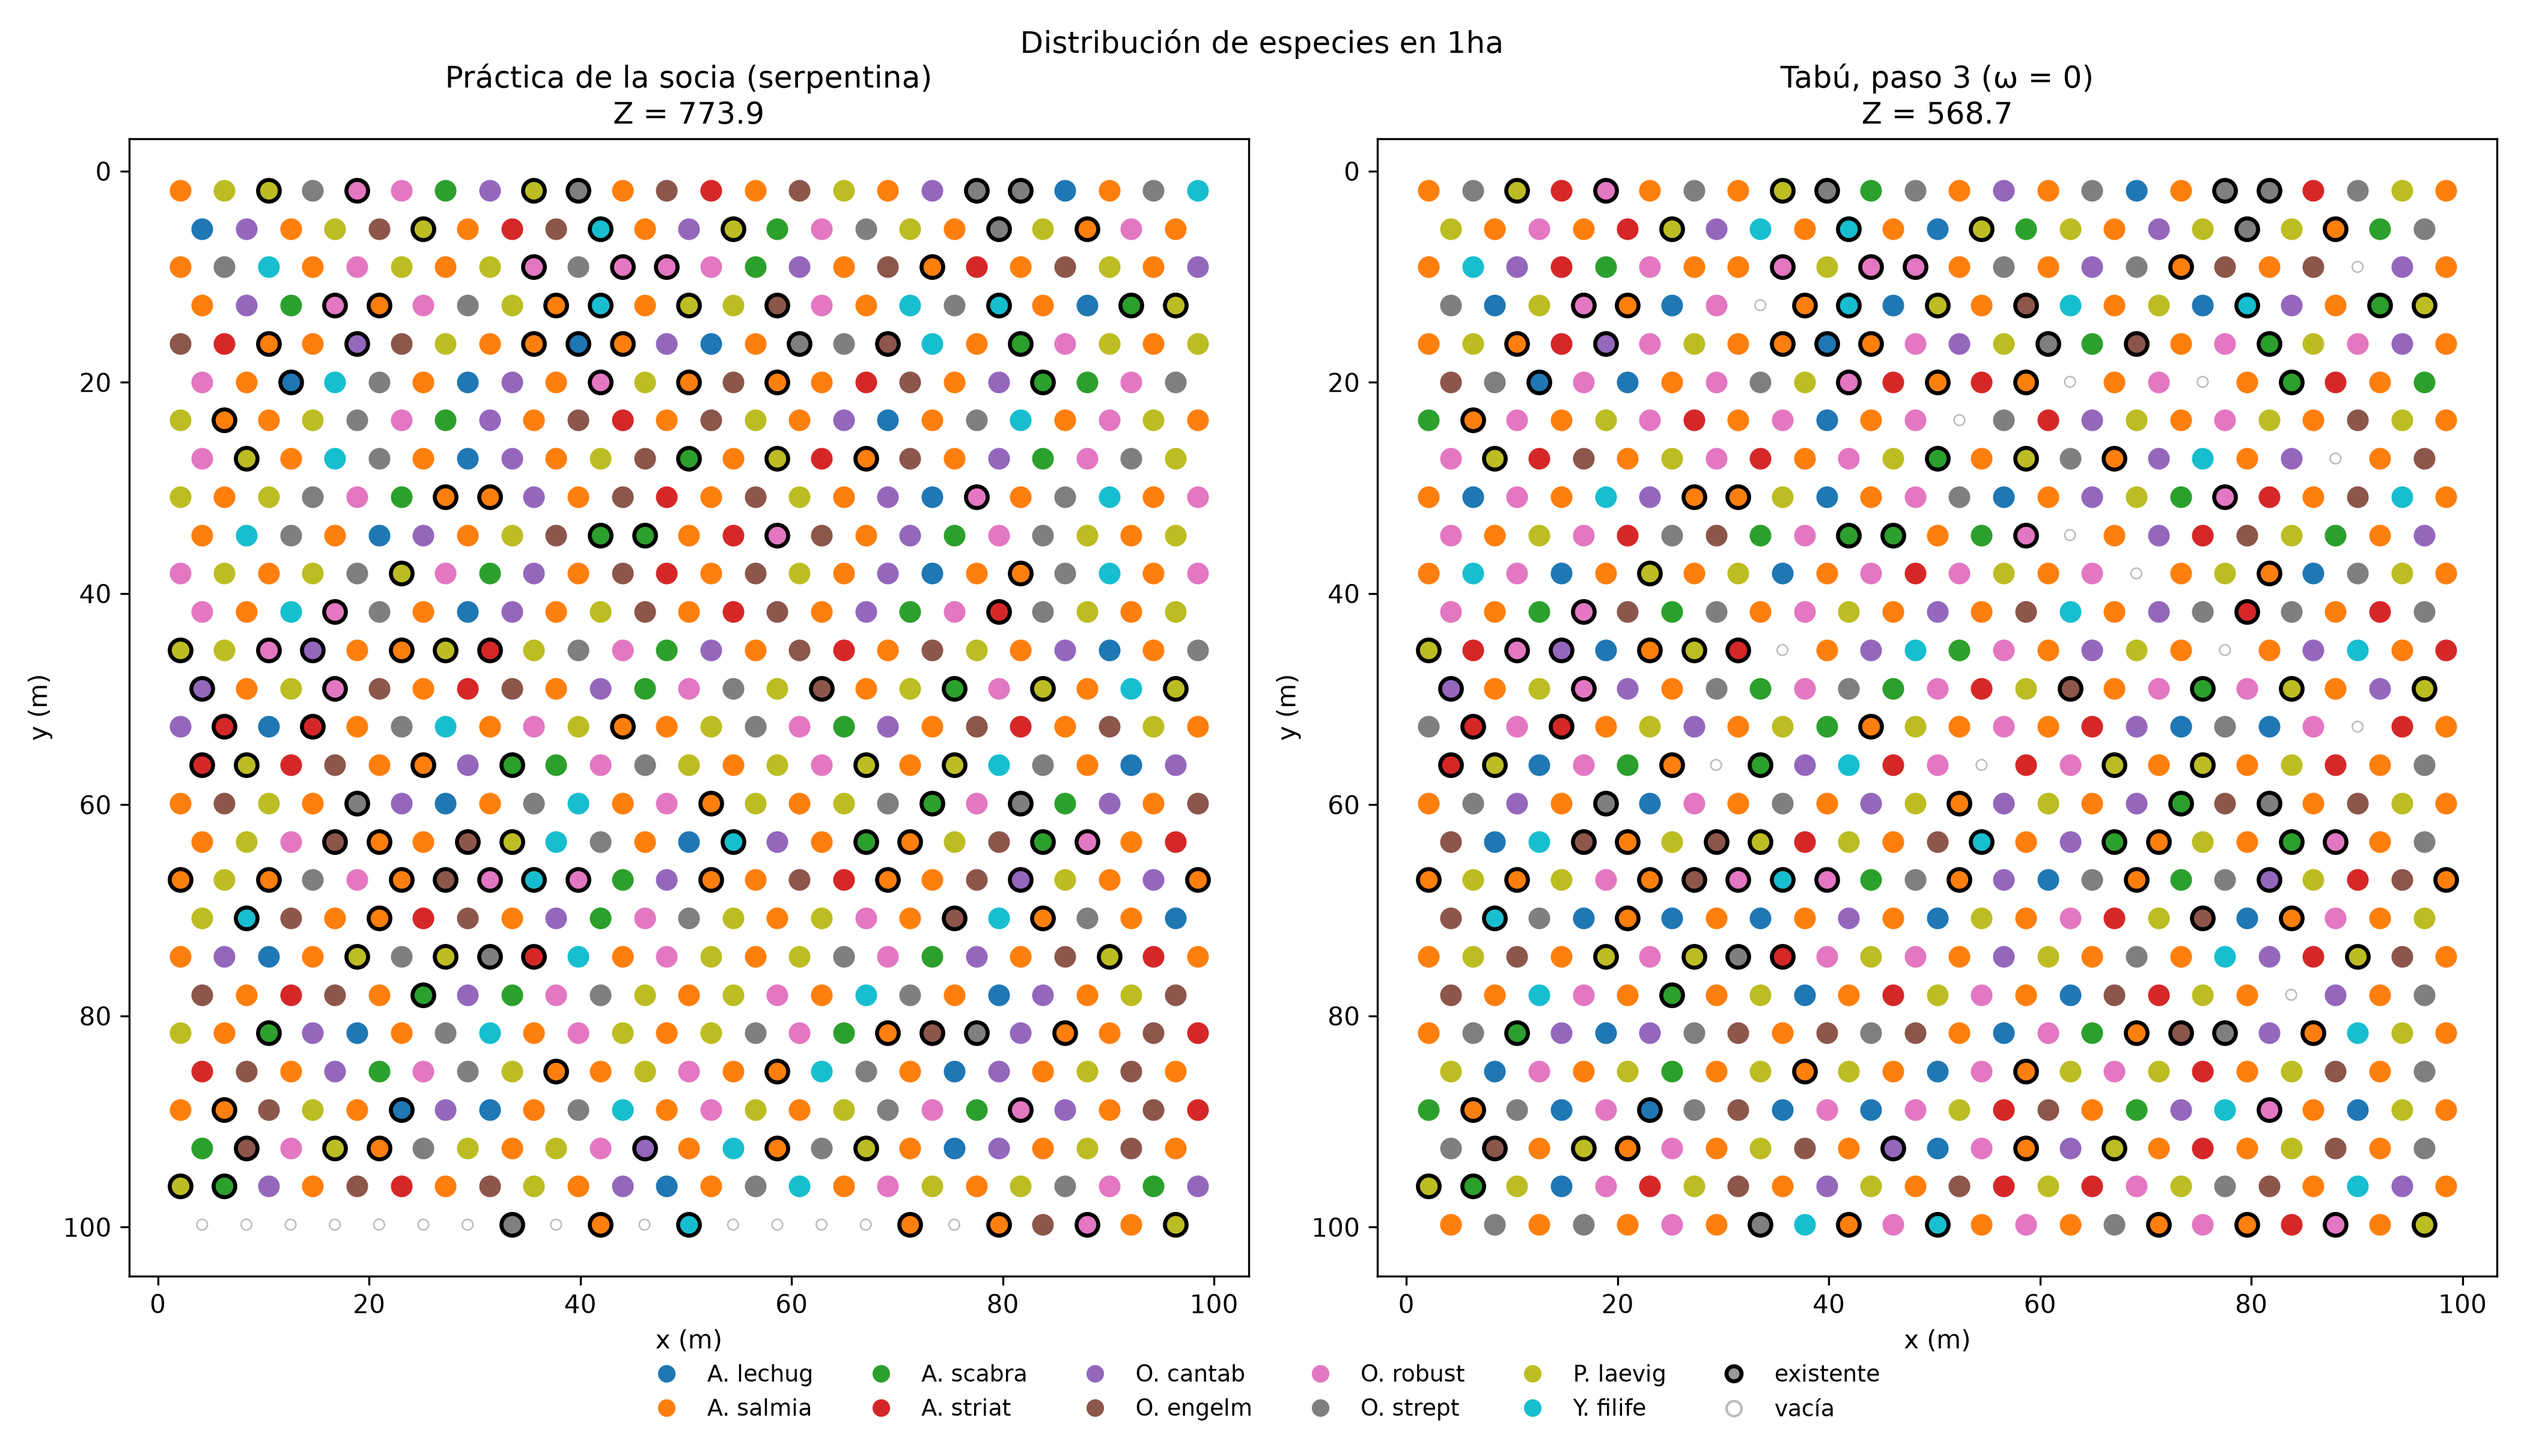
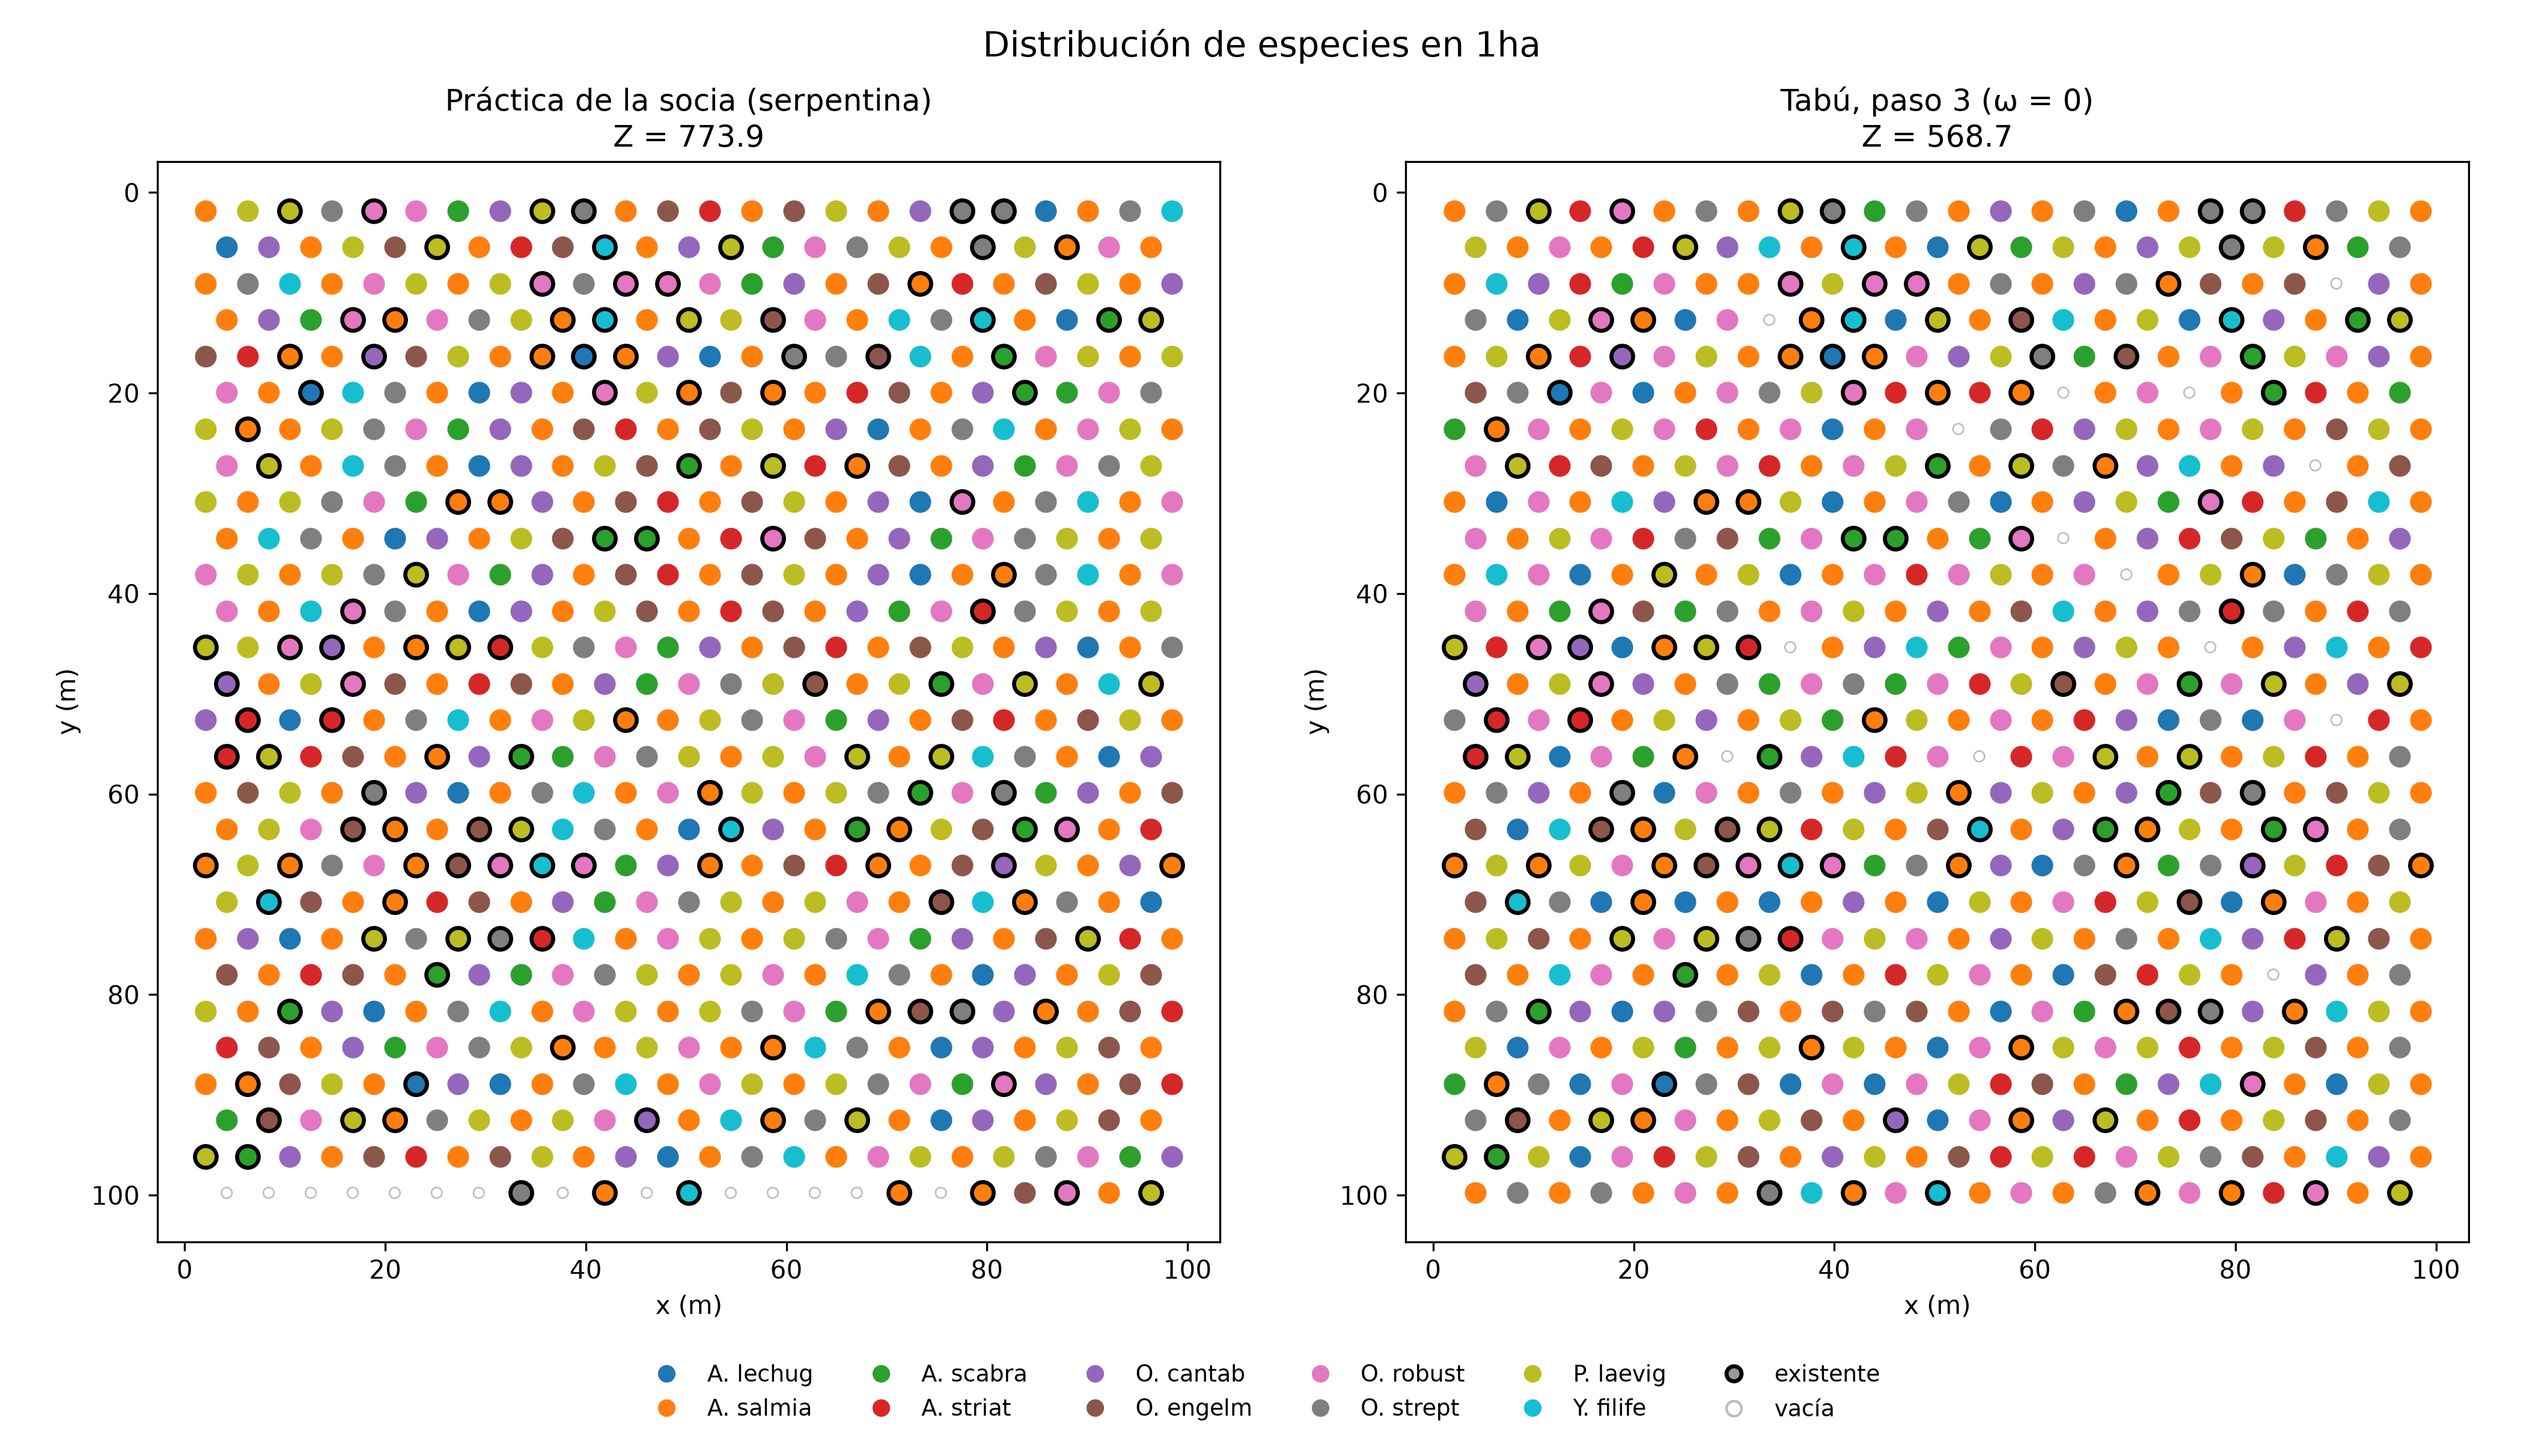
fix(figuras): leyenda del mapa bajo los paneles y singular en 'par'

diff --git a/python/figuras.py b/python/figuras.py
@@ -154,9 +154,10 @@ def fig_mapa(inst, origen, salida):
     asas = [plt.Line2D([], [], marker="o", ls="", color=cmap(j), label=nombres[j]) for j in range(J)]
     asas += [plt.Line2D([], [], marker="o", ls="", mfc="#999999", mec="black", mew=1.6, label="existente"),
              plt.Line2D([], [], marker="o", ls="", mfc="none", mec="#bbbbbb", label="vacía")]
-    fig.legend(handles=asas, loc="lower center", ncol=6, fontsize=9, frameon=False)
-    fig.suptitle(f"Distribución de especies en {inst}")
-    fig.tight_layout(rect=(0, 0.06, 1, 1))
+    fig.suptitle(f"Distribución de especies en {inst}", fontsize=14)
+    fig.tight_layout(rect=(0, 0.12, 1, 0.95))
+    fig.legend(handles=asas, loc="lower center", ncol=6, fontsize=9, frameon=False,
+               bbox_to_anchor=(0.5, 0.0))
     Path(salida).mkdir(parents=True, exist_ok=True)
     fig.savefig(Path(salida) / f"mapa_{inst}.png", dpi=300)
     plt.close(fig)
